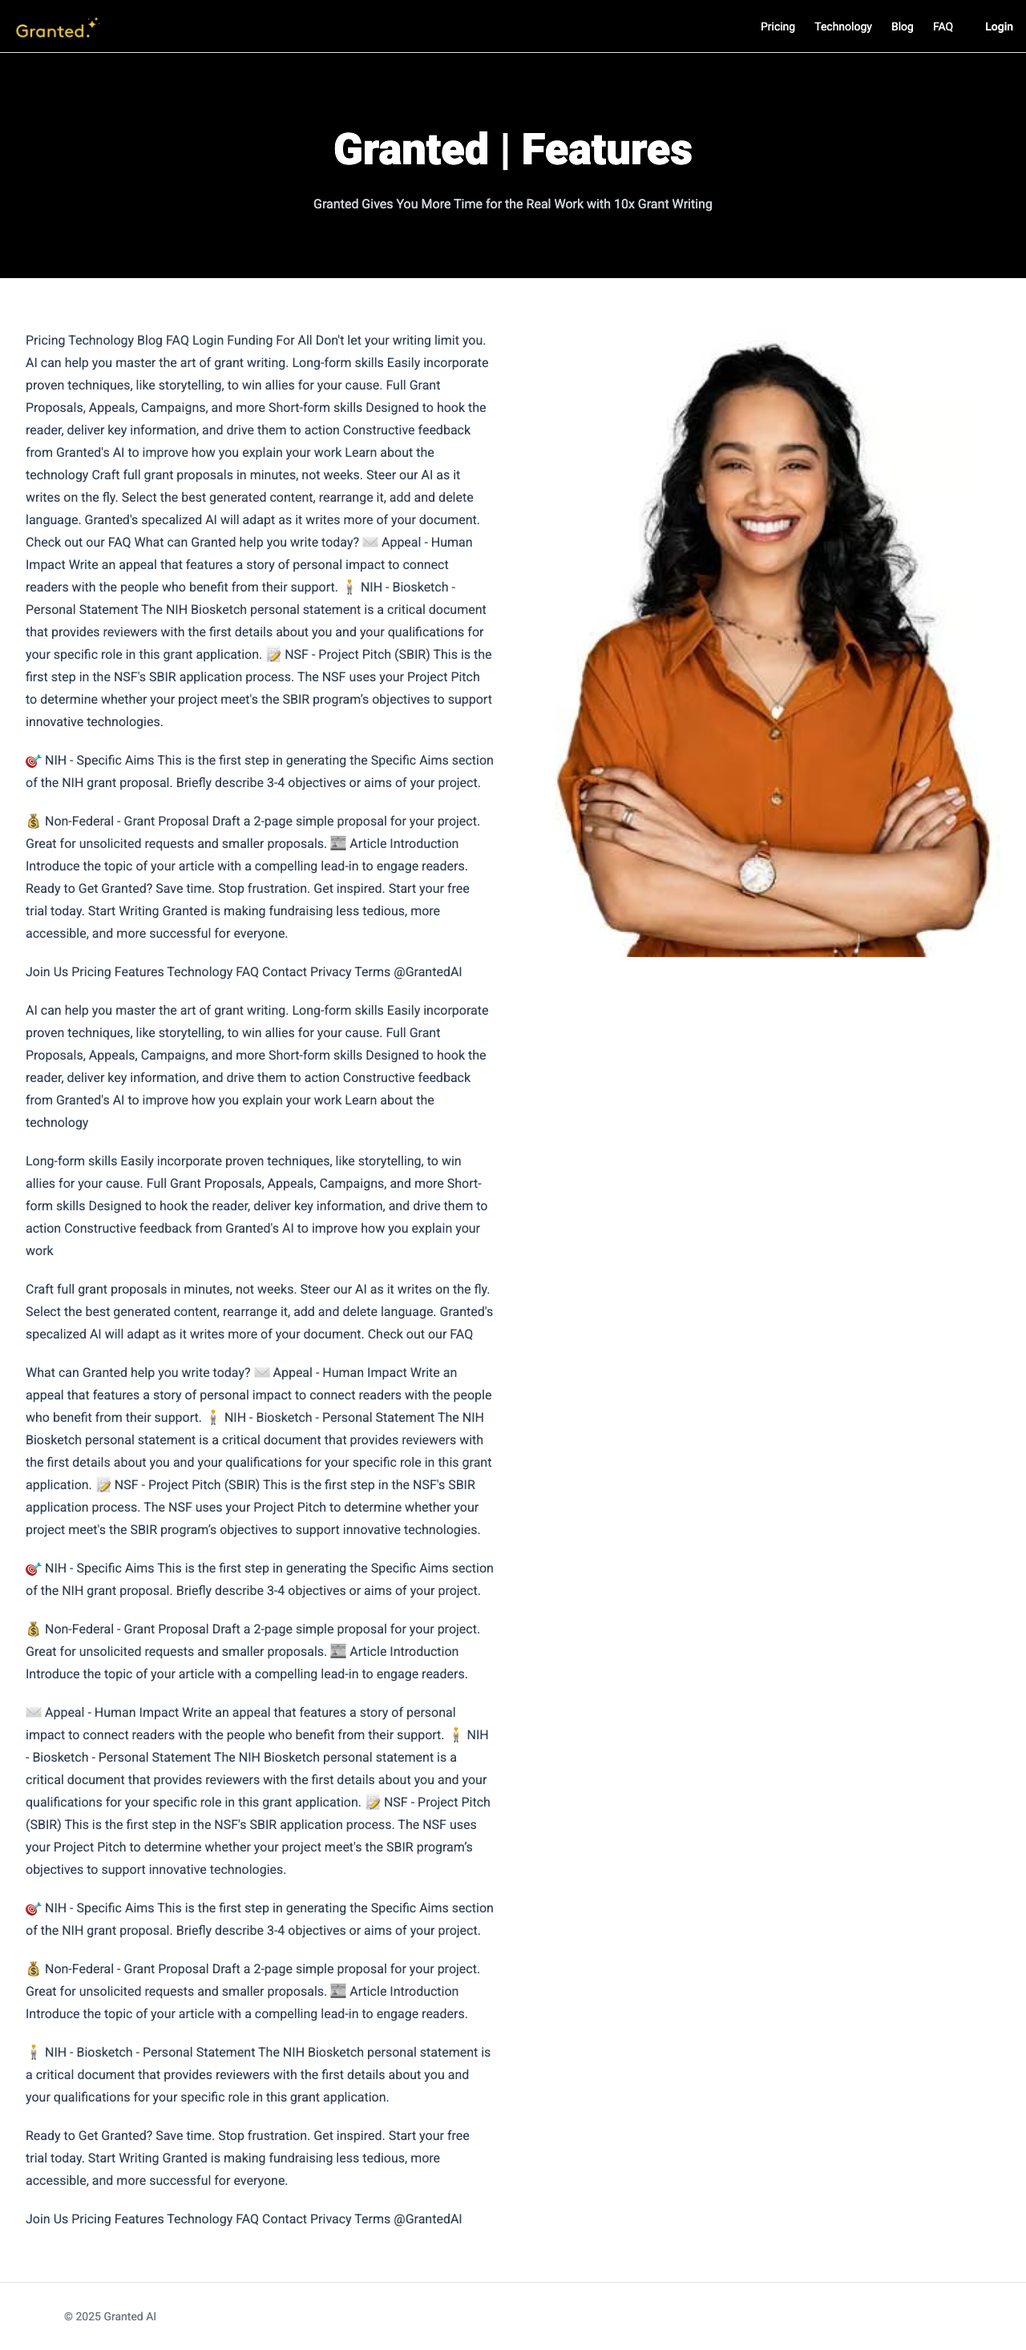
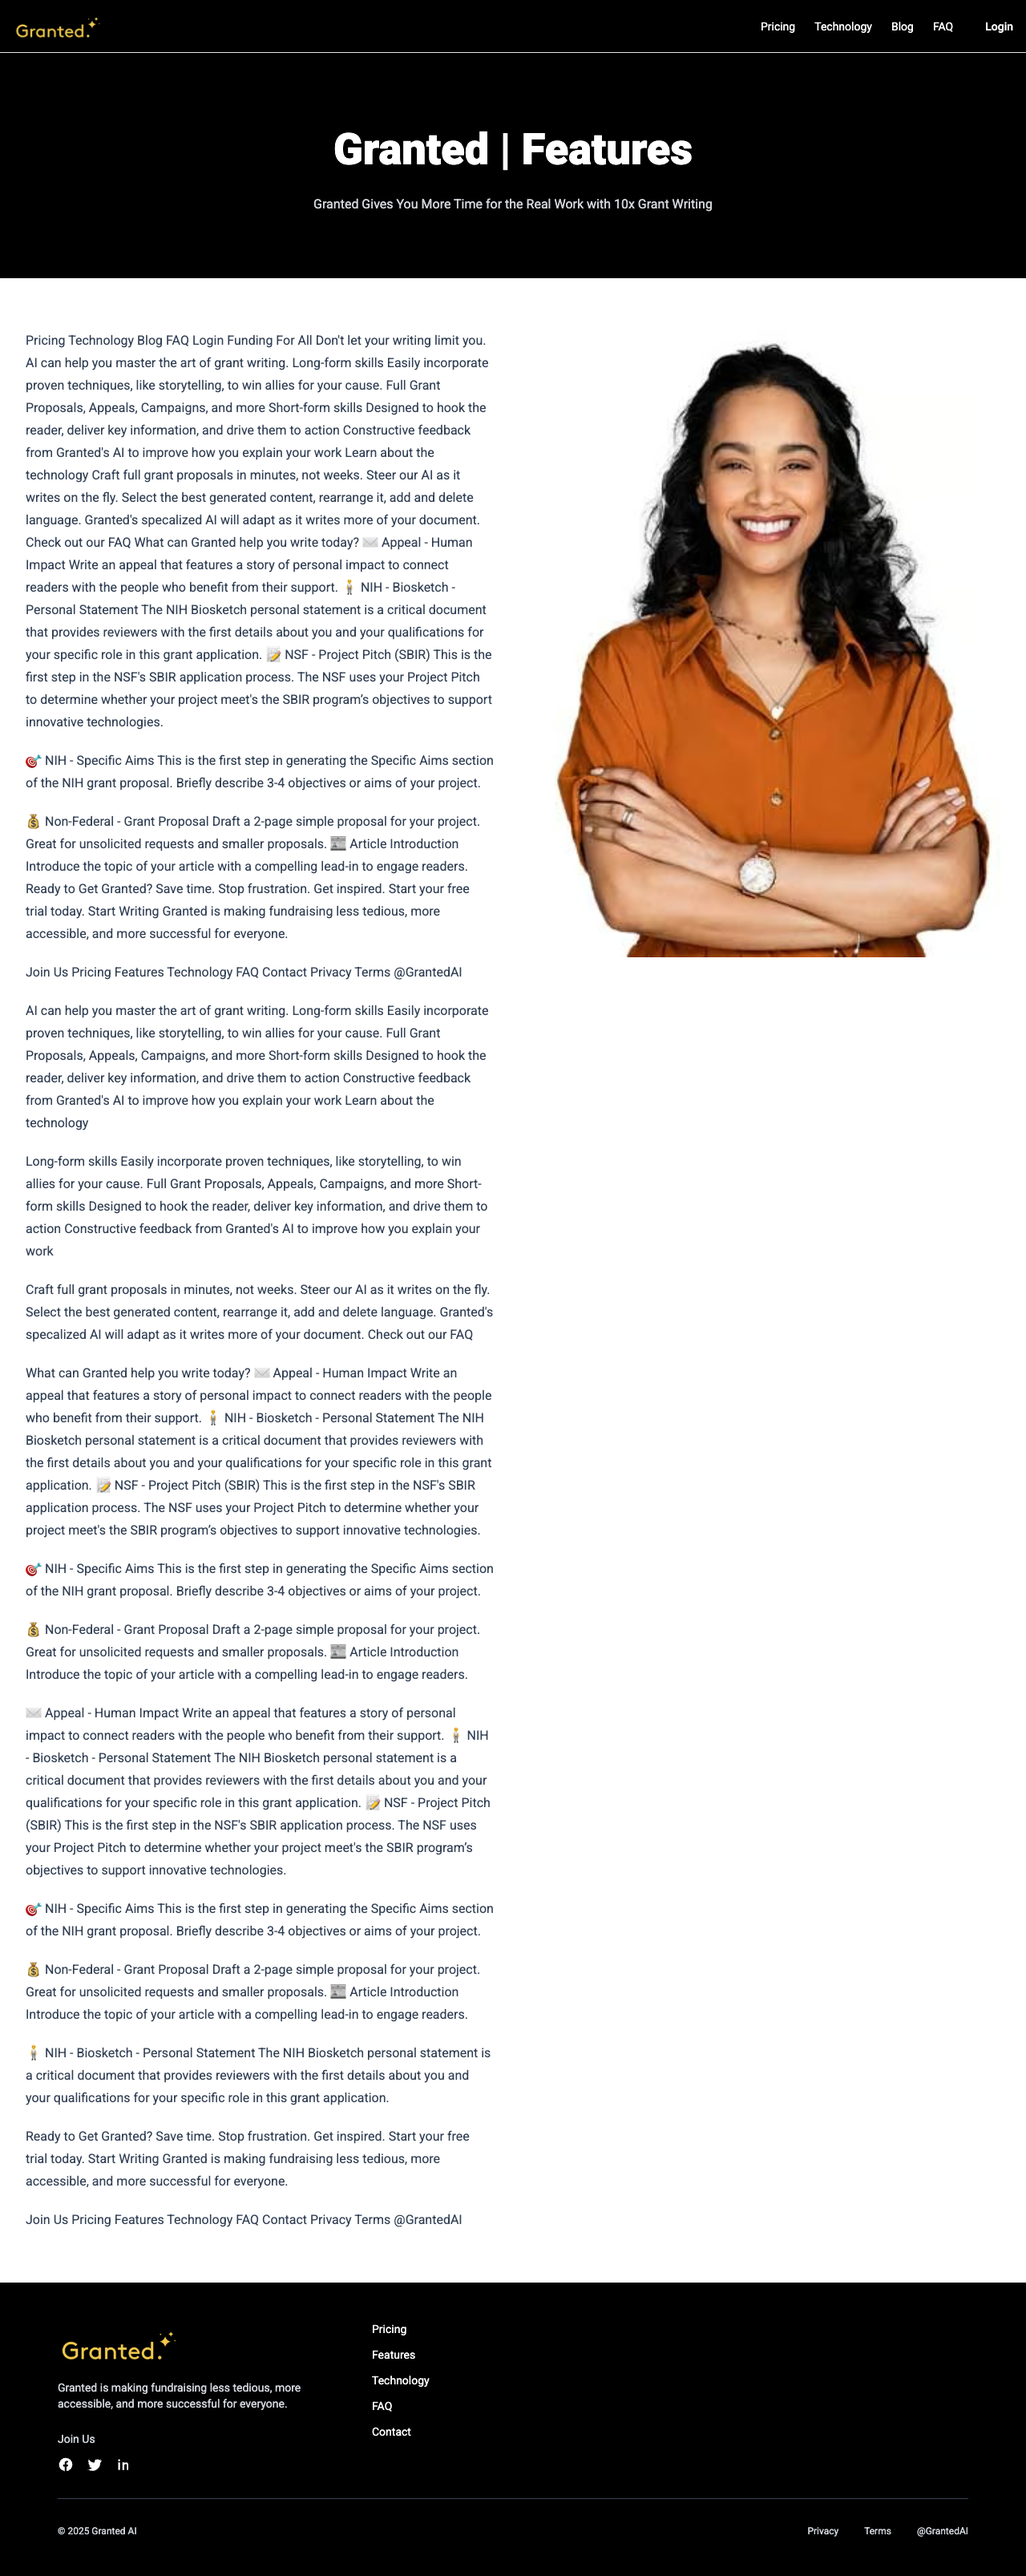
UX: show Documents in sidebar, list filenames during parsing, ensure facts have IDs, and show per-section fact usage count; verified build logs green

diff --git a/site/app/page.tsx b/site/app/page.tsx
@@ -39,7 +39,7 @@ export default async function Home() {
             </div>
           </div>
           <div className="text-center">
-            <img src="/images/imgi_7_img1.jpg" alt="Granted" width="520" height="560" className="mx-auto rounded-xl" />
+            <img src="/images/imgi_7_img1.jpg" alt="Granted" width="420" height="480" className="mx-auto rounded-xl" />
           </div>
         </div>
       </section>
@@ -48,7 +48,7 @@ export default async function Home() {
       <section className="bg-white">
         <div className="mx-auto max-w-[1200px] px-6 md:px-8 py-16 grid md:grid-cols-2 gap-16 items-start">
           <div className="order-2 md:order-1 text-center">
-            <img src="/images/imgi_9_img3.jpg" alt="Use cases" width="460" height="540" className="mx-auto rounded-xl" />
+            <img src="/images/imgi_9_img3.jpg" alt="Use cases" width="400" height="480" className="mx-auto rounded-xl" />
           </div>
           <div className="order-1 md:order-2">
             <h3 className="text-[30px] md:text-[36px] font-extrabold leading-[1.15]">{h3}</h3>
@@ -61,6 +61,19 @@ export default async function Home() {
               <li>Improve how you explain your work with specialized AI feedback.</li>
               <li>Keep donors in the loop with well-written project updates.</li>
             </ul>
+          </div>
+        </div>
+      </section>
+
+      {/* Section: Mid CTA (yellow) */}
+      <section className="bg-black">
+        <div className="mx-auto max-w-[1200px] px-6 md:px-8 py-10">
+          <div className="mx-auto max-w-4xl rounded-[24px] p-10 md:p-14 brand-cta-gradient text-center">
+            <h3 className="text-[40px] md:text-[56px] font-extrabold text-black">Let us write your next draft,<br/>no strings attached.</h3>
+            <p className="mt-3 text-black/80">See what Granted can do for you in just a few minutes and leave with the content you need.</p>
+            <div className="mt-6 flex justify-center">
+              <a href="https://app.grantedai.com" className="px-6 py-3 rounded-md bg-black text-white font-semibold hover:opacity-90">Start a 7-day free trial</a>
+            </div>
           </div>
         </div>
       </section>

diff --git a/web/app/project/[id]/draft/page.tsx b/web/app/project/[id]/draft/page.tsx
@@ -141,6 +141,10 @@ export default async function DraftPage({ params, searchParams }: { params: { id
             </form>
             {/* Inline source bubbles (list) when {{fact:ID}} markers are present */}
             {renderSources((project.factsJson as any[]) || [], project.uploads || [], s.contentMd || '')}
+            {/* Fact usage count */}
+            <div style={{marginTop:4, fontSize:12, color:'#6b7280'}}>
+              Facts used in this section: {countFactMarkers(s.contentMd || '')}
+            </div>
             <div style={{marginTop:8,display:'flex',gap:8}}>
               <form action={fixNext.bind(null, s.id)}><button type="submit">Fix next</button></form>
               <form action={tighten.bind(null, s.id)}><button type="submit">Tighten to limit</button></form>
@@ -185,6 +189,12 @@ function renderSources(facts: any[], uploads: { id: string; filename: string }[]
       ))}
     </div>
   )
+}
+
+function countFactMarkers(md: string){
+  if (!md) return 0
+  const matches = md.match(/\{\{fact:[^}]+\}\}/g)
+  return matches ? matches.length : 0
 }
 
 async function runAutodraft(projectId: string) {
